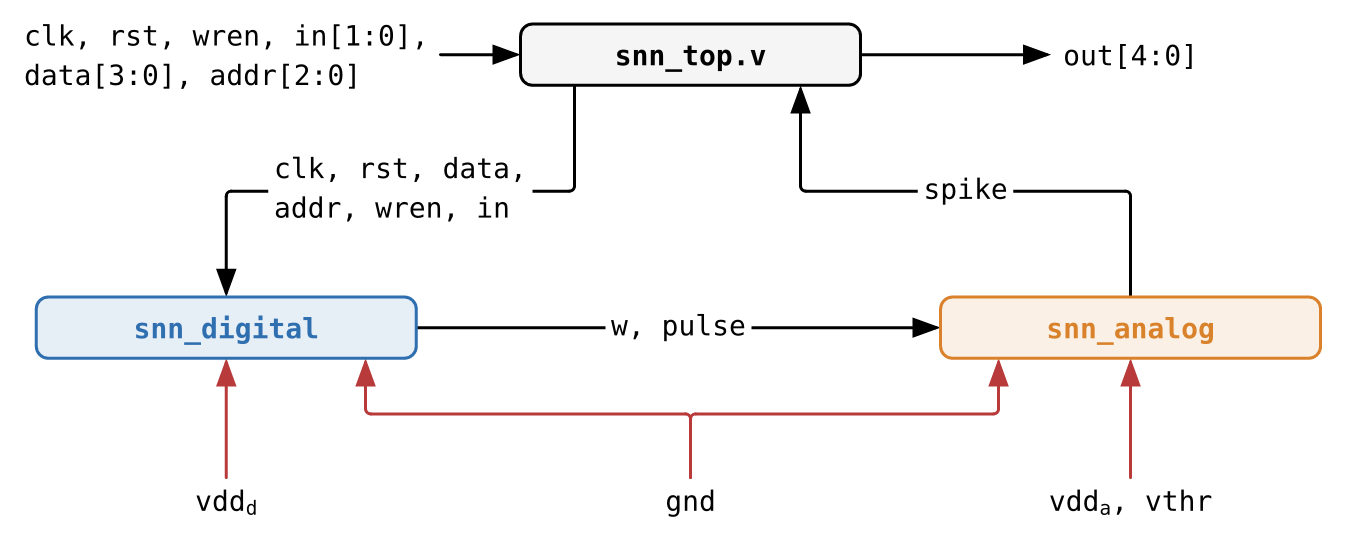
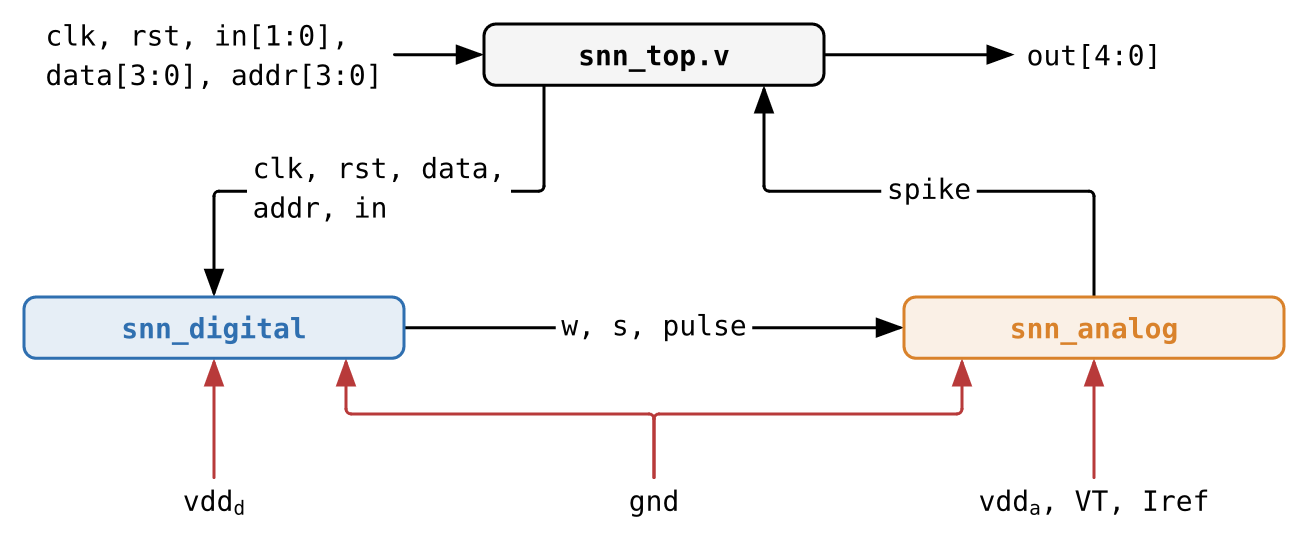
Slides: waveforms and diagram for the signed interface

diff --git a/tools/vcd2png.py b/tools/vcd2png.py
@@ -103,7 +103,7 @@ def fmt(v, kind, width):
     if kind == "dec":
         return str(n)
     if kind == "bin":
-        return v
+        return v.rjust(width, "0")  # the VCD drops leading zeros
     return format(n, f"0{(width + 3) // 4}X")  # all hex digits, so each lines up with its bits
 
 
